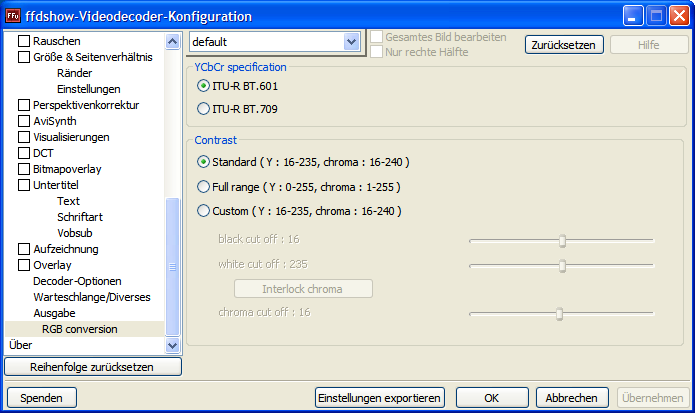
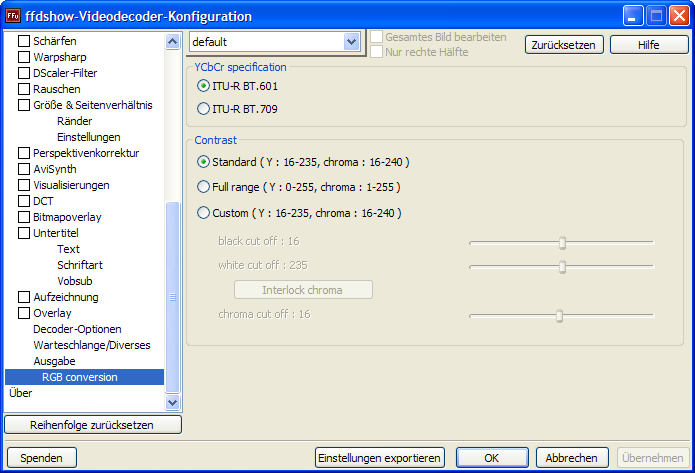
WEB content: Updated screenshots of the ffdshow options window.
git-svn-id: svn://svn.code.sf.net/p/ffdshow-tryout/code/trunk@2089 3b938f2f-1a1a-0410-8054-a526ea5ff92c

diff --git a/htmlhelp/html/de/cspOptions.htm b/htmlhelp/html/de/cspOptions.htm
@@ -32,7 +32,7 @@ If you skip to port a revision please note that revision for later porting. -->
     <a name="top" id="top">Erweiterte Farbraumoptionen</a>
   </h1>
 
-  <img src="images/cspOptions.png" title="Erweiterter Farbraumoptionendialog" alt="Erweiterter Farbraumoptionendialog" width="695" height="413" />
+  <img src="images/cspOptions.png" title="Erweiterter Farbraumoptionendialog" alt="Erweiterter Farbraumoptionendialog" width="695" height="473" />
 
   <p>
     In diesem Dialog k&ouml;nnen Optionen, die f&uuml;r die Konvertierung zwischen YCbCr und RGB notwendig sind, konfiguriert werden. In der oberen H&auml;lfte des Dialogs l&auml;&szlig;t sich zwischen den beiden ITU-Standards <em>ITU-R BT.601</em> und <em>ITU-R BT.709</em> ausw&auml;hlen. Die untere H&auml;lfte erlaubt die Kontrolle des Kontrastes, wobei Schwarz, Wei&szlig; sowie Chroma individuell anpassbar sind.<br />

diff --git a/htmlhelp/html/de/outputv.htm b/htmlhelp/html/de/outputv.htm
@@ -32,7 +32,7 @@ If you skip to port a revision please note that revision for later porting. -->
     <a name="top" id="top">Videoausgabe-Konfiguration</a>
   </h1>
 
-  <img src="images/outputV.png" title="Videoausgabe-Dialog" alt="Videoausgabe-Dialog" width="696" height="408" />
+  <img src="images/outputV.png" title="Videoausgabe-Dialog" alt="Videoausgabe-Dialog" width="695" height="473" />
 
   <p>
     Die Ausgabeseite gibt Ihnen Kontrolle &uuml;ber die von ffdshow verwendeten Ausgabeformate. Die obere H&auml;lfte erm&ouml;glicht die Angabe der erlaubten Ausgabefarbr&auml;ume, w&auml;hrend die untere f&uuml;r verschiedene Ausgabeeinstellungen genutzt wird.

diff --git a/htmlhelp/html/en/outputv.htm b/htmlhelp/html/en/outputv.htm
@@ -25,7 +25,7 @@
     <a name="top" id="top">Output video configuration</a>
   </h1>
 
-  <img src="images/outputV.png" title="Output video dialog" alt="Output video dialog" width="558" height="413" />
+  <img src="images/outputV.png" title="Output video dialog" alt="Output video dialog" width="558" height="473" />
 
   <p>
     The output page gives you control over the output formats used by ffdshow. The top half gives you control over the allowed output colorspaces, while the lower half is used for miscellaneous output settings.

diff --git a/htmlhelp/html/de/resize.htm b/htmlhelp/html/de/resize.htm
@@ -32,7 +32,7 @@ If you skip to port a revision please note that revision for later porting. -->
     <a name="top" id="top">Gr&ouml;&szlig;e &amp; Seitenverh&auml;ltnis</a>
   </h1>
 
-  <img src="images/resize.png" title="Gr&ouml;&szlig;endialog" alt="Gr&ouml;&szlig;endialog" width="651" height="473" />
+  <img src="images/resize.png" title="Gr&ouml;&szlig;endialog" alt="Gr&ouml;&szlig;endialog" width="695" height="473" />
 
   <p>
     Dieses Dokument basiert auf Revision 1103 oder neuer. Beta2a hat andere Spezifikationen.

diff --git a/htmlhelp/html/en/cspOptions.htm b/htmlhelp/html/en/cspOptions.htm
@@ -25,7 +25,7 @@
     <a name="top" id="top">Advanced color space options</a>
   </h1>
 
-  <img src="images/cspOptions.png" title="Advanced color space options dialog" alt="Advanced color space options dialog" width="558" height="413" />
+  <img src="images/cspOptions.png" title="Advanced color space options dialog" alt="Advanced color space options dialog" width="558" height="473" />
 
   <p>
     The advanced color space options page gives you control over the YCbCr &lt;-&gt; RGB conversion.

diff --git a/htmlhelp/html/de/queue.htm b/htmlhelp/html/de/queue.htm
@@ -32,7 +32,7 @@ If you skip to port a revision please note that revision for later porting. -->
     <a name="top" id="top">Warteschlange</a>
   </h1>
 
-  <img src="images/queue.png" title="Warteschlangendialog" alt="Warteschlangendialog" width="558" height="473" />
+  <img src="images/queue.png" title="Warteschlangendialog" alt="Warteschlangendialog" width="695" height="473" />
 
   <h2>&Uuml;berblick</h2>
 

diff --git a/htmlhelp/html/en/avisynth.htm b/htmlhelp/html/en/avisynth.htm
@@ -26,7 +26,7 @@
     <a name="top" id="top">AviSynth filter</a>
   </h1>
 
-  <img src="images/avisynth.png" width="558" height="406" title="AviSynth filter dialog" alt="AviSynth filter dialog" />
+  <img src="images/avisynth.png" width="558" height="473" title="AviSynth filter dialog" alt="AviSynth filter dialog" />
 
   <p>
     This document is based on rev. 1297 or later.

diff --git a/htmlhelp/html/en/resize.htm b/htmlhelp/html/en/resize.htm
@@ -25,7 +25,7 @@
     <a name="top" id="top">Resize &amp; aspect</a>
   </h1>
 
-  <img src="images/resize.png" title="Resize dialog" alt="Resize dialog" width="558" height="412" />
+  <img src="images/resize.png" title="Resize dialog" alt="Resize dialog" width="558" height="473" />
 
   <p>
     This document is based on rev 1103 or later. Beta2a has different specification.
